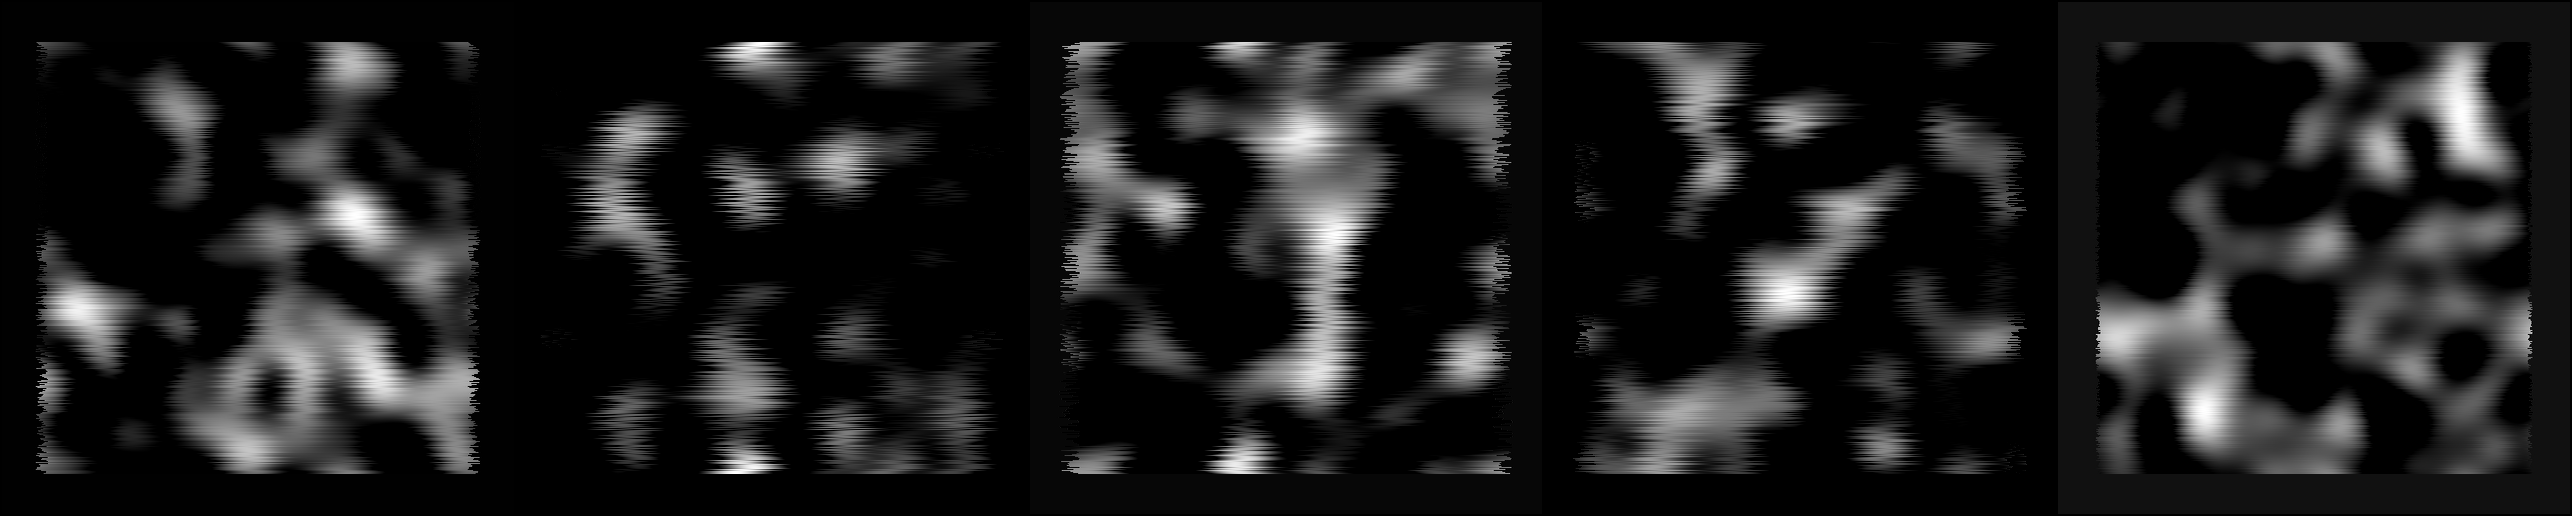
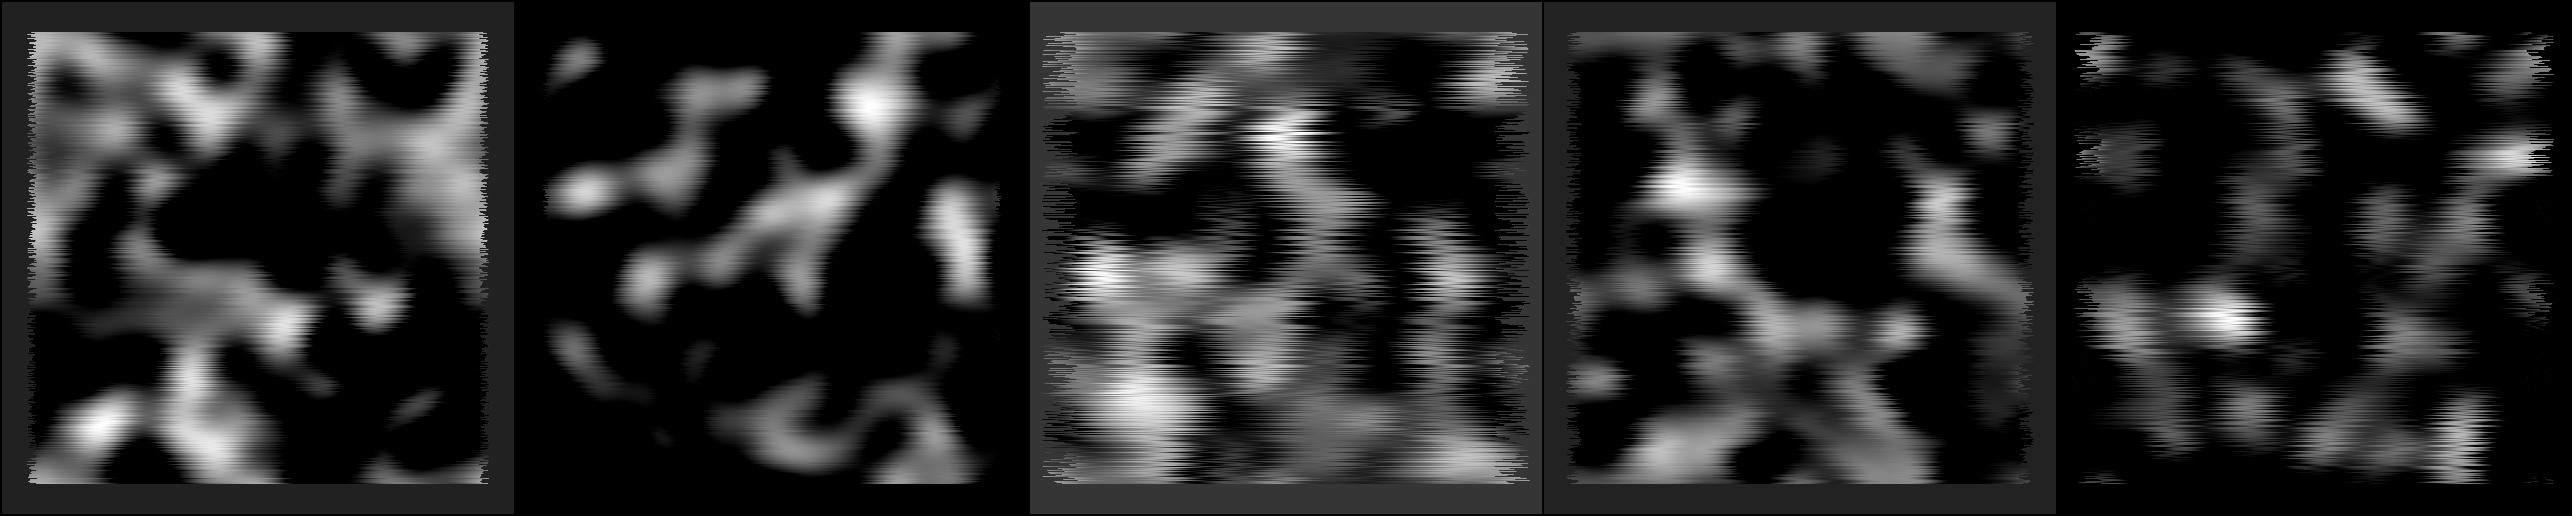
modified padding size to better fit image size of 512

diff --git a/alt-src/dataset.py b/alt-src/dataset.py
@@ -35,7 +35,7 @@ class JitteredDataset(Dataset):
 
 if __name__ == "__main__":
 
-    N = 600 
+    N = 512
     t1 = time()
     dataset = JitteredDataset(N, 2000, )
     loader = DataLoader(dataset, batch_size=5)

diff --git a/alt-src/config.py b/alt-src/config.py
@@ -21,7 +21,7 @@ BATCH_SIZE = 32
 SCHEDULAR_DECAY = 0.5
 SCHEDULAR_PATIENCE = 20
 NUM_WORKERS = 2
-PADDING_WIDTH = 40
+PADDING_WIDTH = 30
 IMAGE_SIZE =  512
 NOISE_SIZE = IMAGE_SIZE - PADDING_WIDTH*2
 SIGMA = 20
